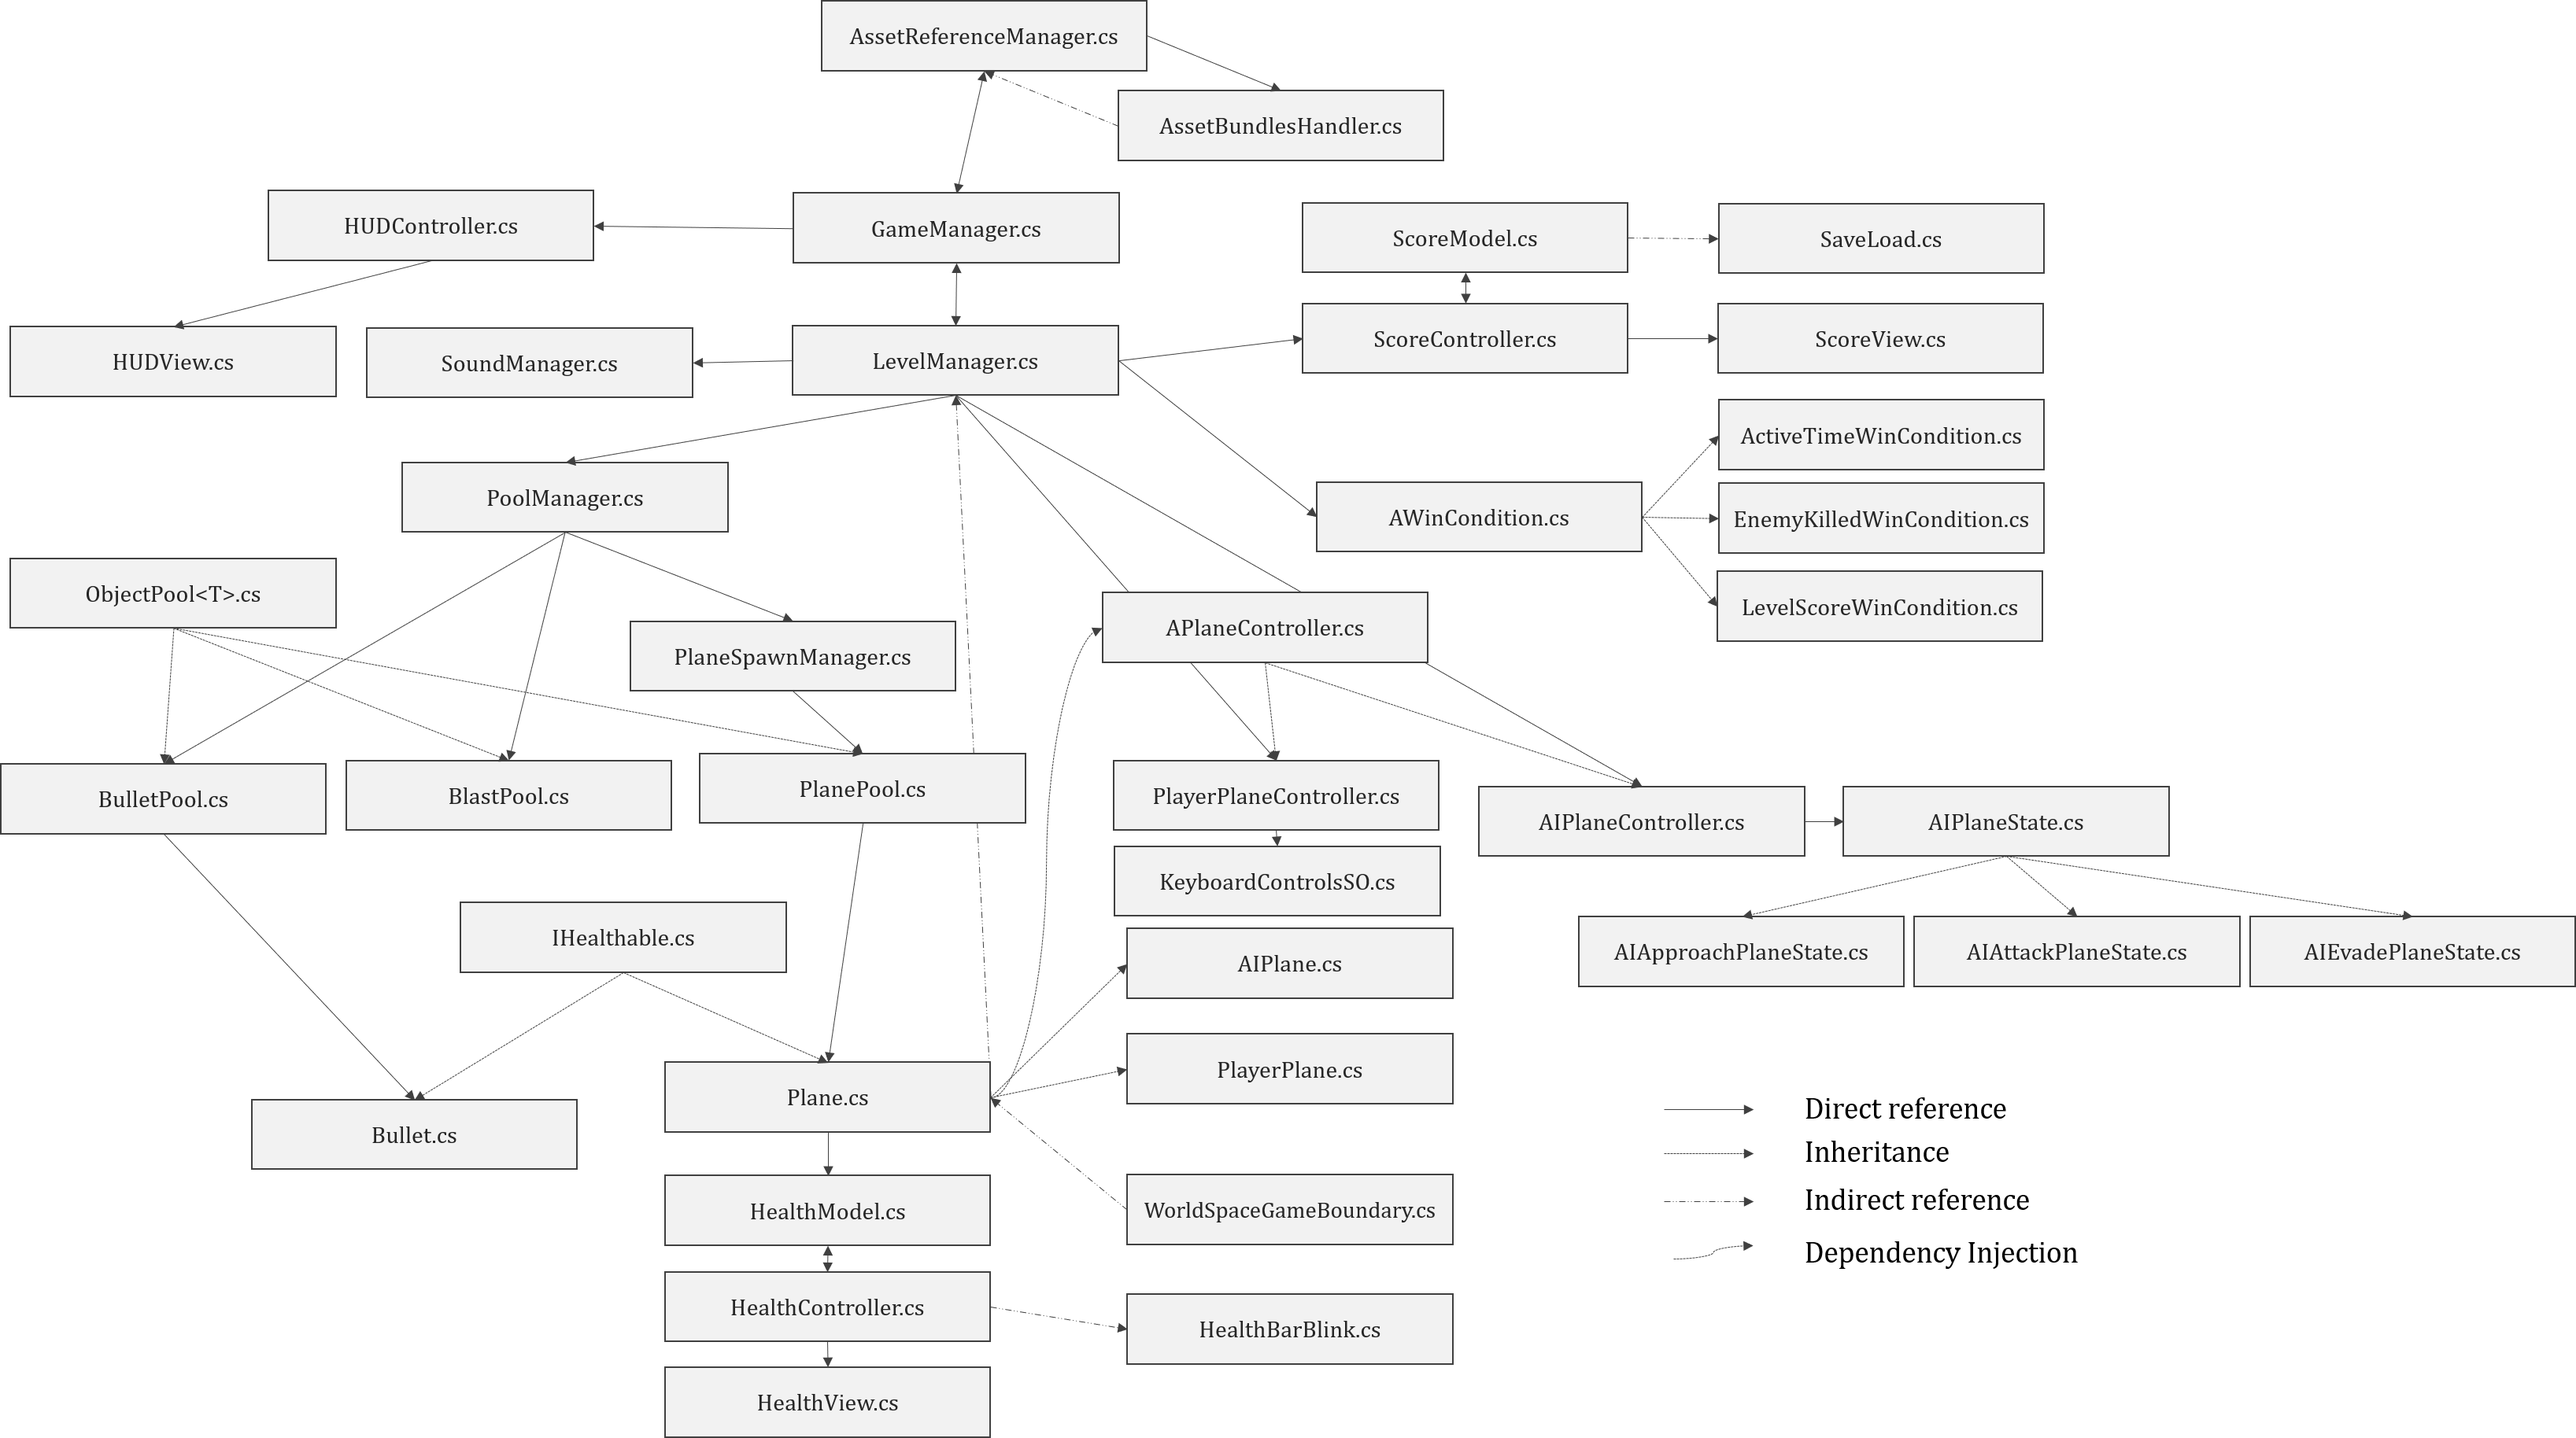
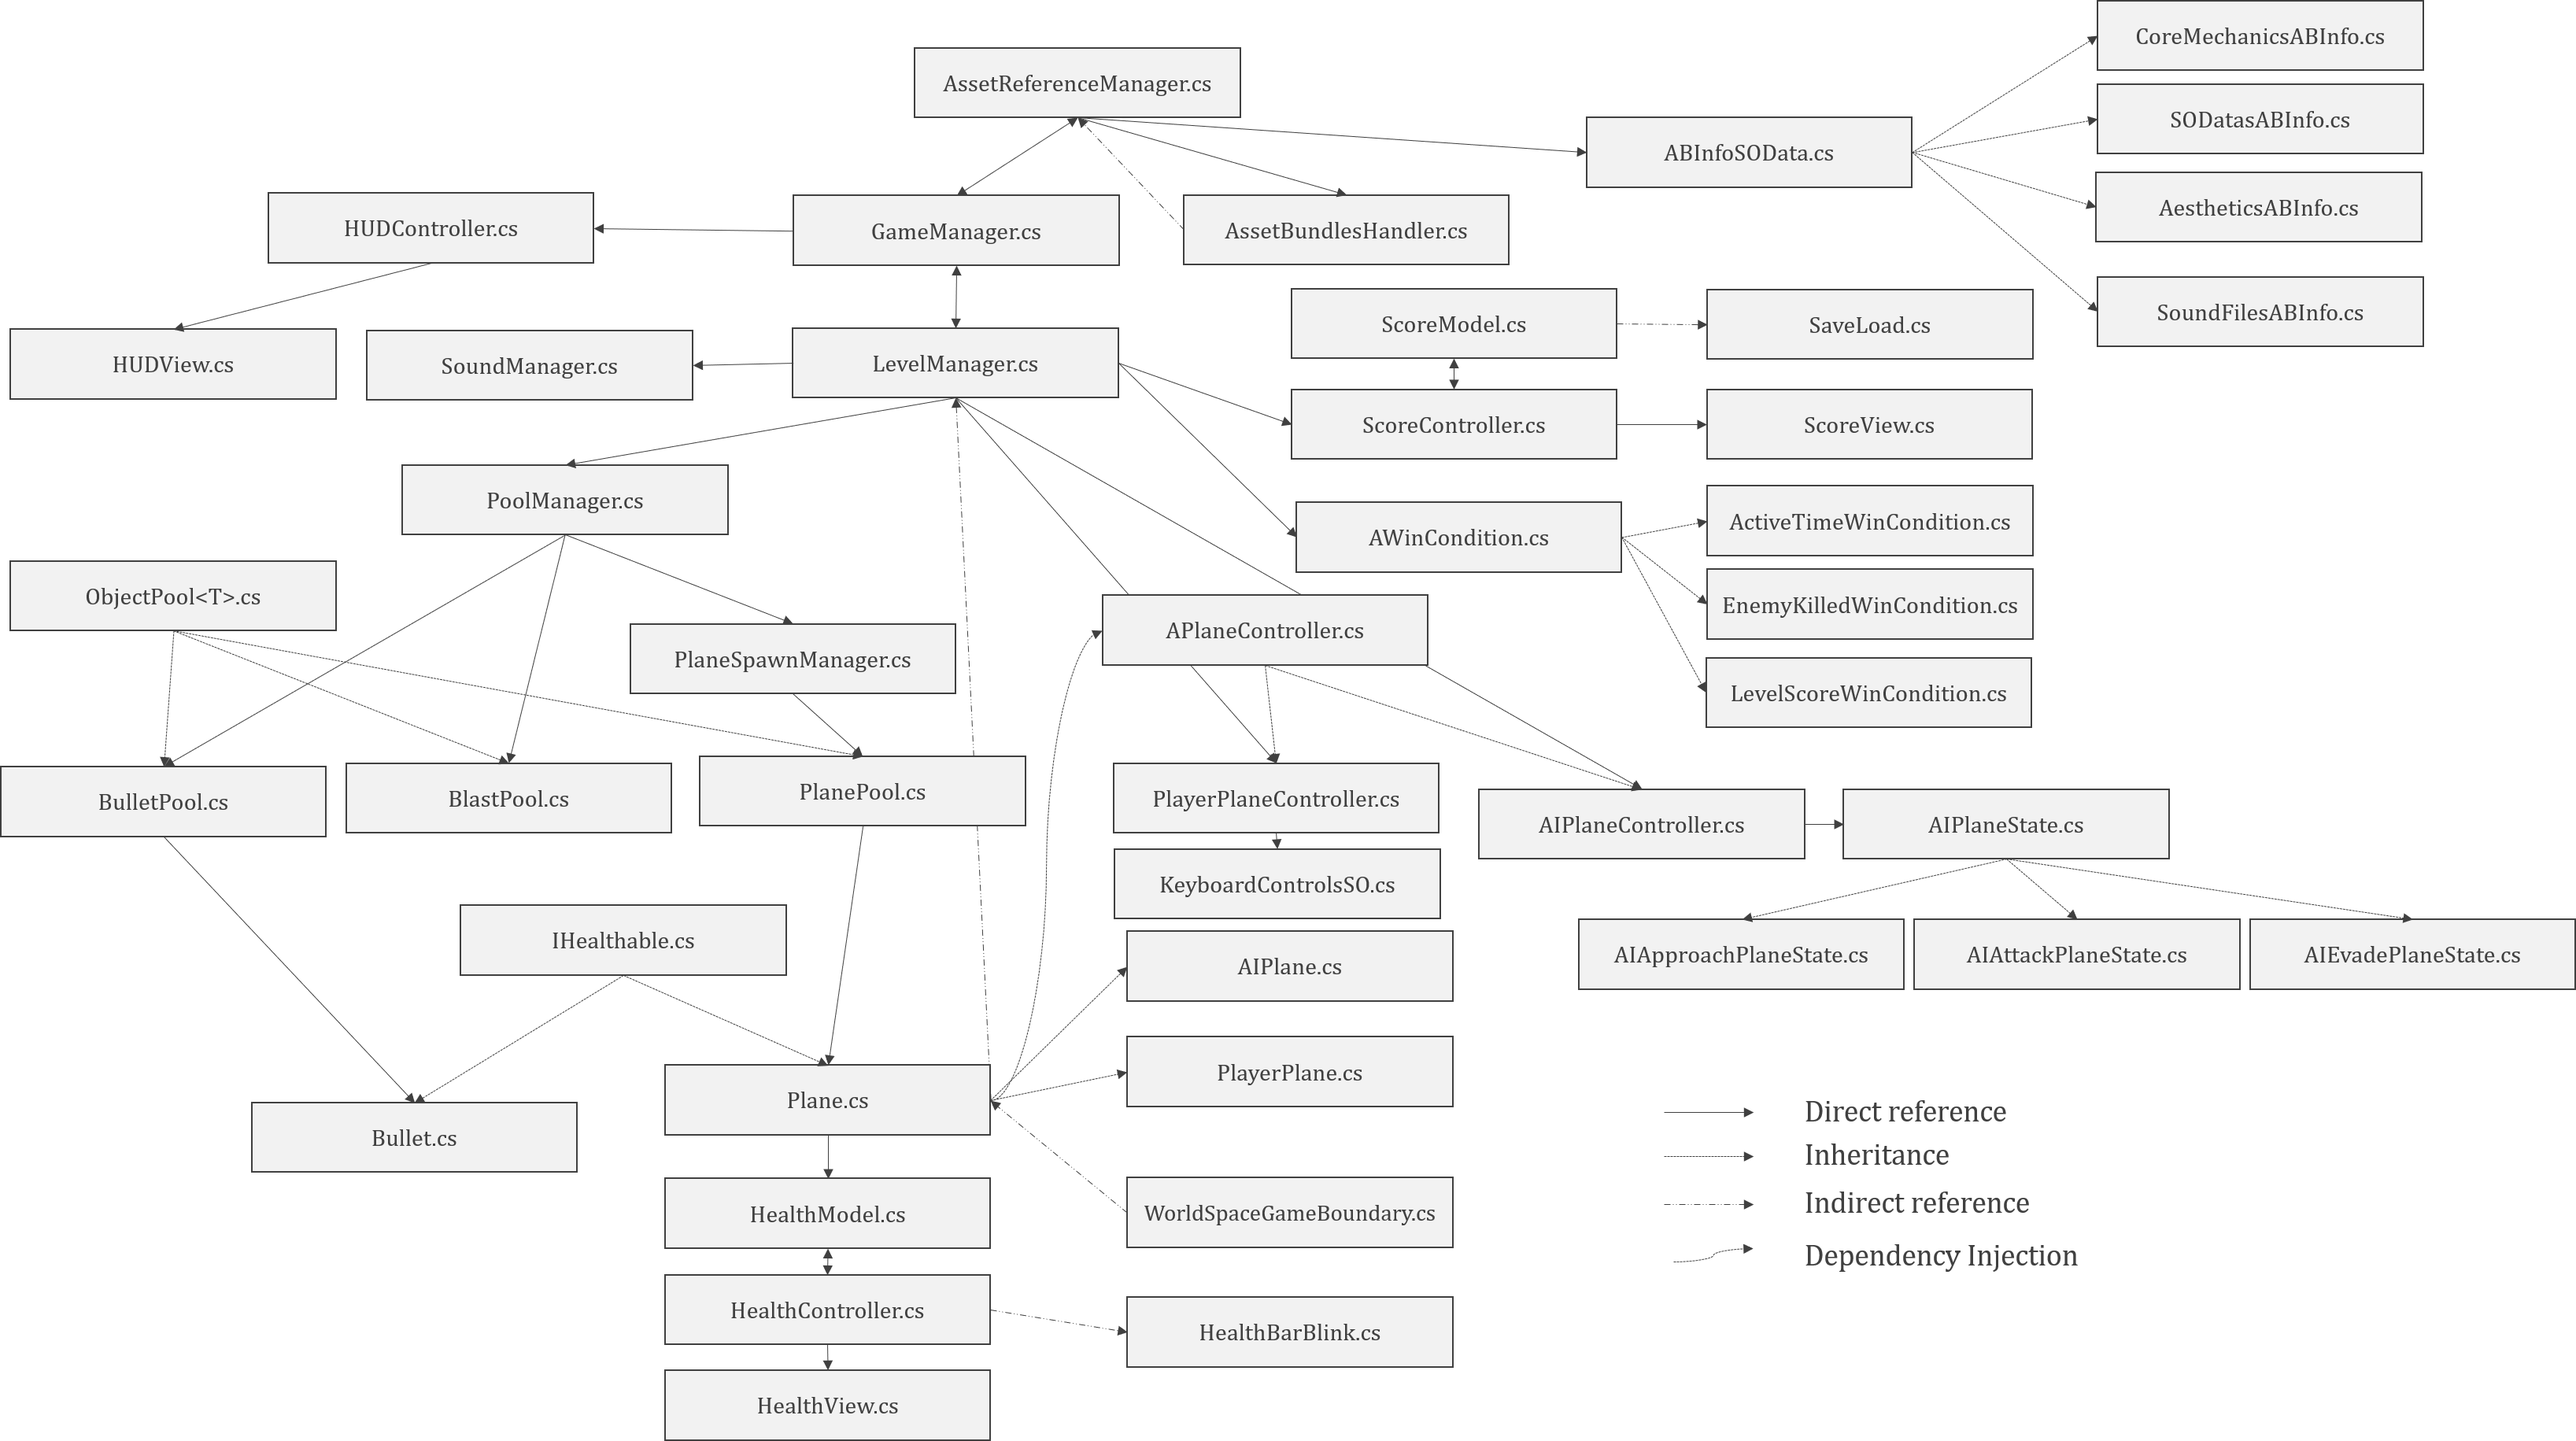
readme update (Asset Bundles, shader, Level SO, images)

diff --git a/README.md b/README.md
@@ -1,4 +1,5 @@
 
+
 # Vertical Scroller Shooter [Read Me: in progress]
 
 Hi! I am Neeraj S. Thakur, Game Programmer. This repository is dedicated to an open Unity3D multiplayer vertical scroller and shooter game project which is very designer friendly with easy configurable win conditions and async asset loads. In this readme, I have explained all the features of the project. 
@@ -35,8 +36,6 @@ Game starts with user selecting **single player** or **multi player** mode and f
 
 Player(s) starts the level and get approached by enemies in waves. Player has to satisfy win condition (configurable) to proceed to next level, where the cycle repeats.
 
-![alt text](https://raw.githubusercontent.com/Nrjnicks/SpaceShooterGame/master/ReadmeImages/GameplayMedivalMultiplayer.jpg "GameplayMedivalMultiplayer")
-
 
 ### Game End
 Game ends if player(s) survive all waves in different levels (Won) or lose all health (Lost)
@@ -50,15 +49,20 @@ Player has to kill *number_of_enemy_planes*, to proceed to next level
 Player has to survive waves of enemies for *time_in_seconds* without dying, to proceed to next level
 ### 3.  Score
 Player has to gain *score* by either surviving or killing enemy planes, to proceed to next level
+![alt text](https://raw.githubusercontent.com/Nrjnicks/SpaceShooterGame/master/ReadmeImages/WinConditions.jpg "WinConditions")
 
 ## Controls
 Player(s) plane is(are) controlled via Keyboard keys. Based on default settings,  
+
 **Player 1** keys: *W A S D* for movement and *Space bar* to fire.
+
 **Player 2** keys: *Arrow Keys* for movement and *Right Ctrl* to fire.
+
+![alt text](https://raw.githubusercontent.com/Nrjnicks/SpaceShooterGame/master/ReadmeImages/KeyboardControls.jpg "KeyboardControls")
 
 ## Enemies
 Game has 3 different types of AI Planes (Easy difficulty, Medium difficulty, Hard difficulty) and similar types of Homing Missiles inflicting different damage.
-[Add types image here]
+![alt text](https://raw.githubusercontent.com/Nrjnicks/SpaceShooterGame/master/ReadmeImages/Enemies.jpg "Enemies")
 
 # Designers Friendly
 
@@ -77,7 +81,9 @@ Game has two modes **single player** and (local) **multi player**.
 Game currently has 2 players multiplayer, but can be theoretically expanded to *int_max*.  Number of players are requested by `GameManager.cs` to `LevelManager.cs` which checks  `MultiPlayerSOData` for Multiplayer data and spawn players. 
 `MultiPlayerSOData` contains list of struct with `PlayerPlaneSOData` and `KeyBoardControlsSO`. Create (explained in details later) as many as you like and enjoy.
 Current max for this project is 4 just because I've only set 4 player spawn positions. Feel free to add inside PoolManager Transform. 
-[Image]
+![alt text](https://raw.githubusercontent.com/Nrjnicks/SpaceShooterGame/master/ReadmeImages/GameplaySpaceSingleplayer2.jpg "GameplaySpaceSingleplayer2")
+
+![alt text](https://raw.githubusercontent.com/Nrjnicks/SpaceShooterGame/master/ReadmeImages/GameplayMedivalMultiplayer2.jpg "GameplayMedivalMultiplayer2")
 
 ## Win Conditions
 `LevelsSOData` contains a `commonWinCondition` and list of `LevelData` which has `WinCondition` and list of `AIWaveData` values. The 3 win condition types mentioned above has exposed variable and can be created as `ScriptableObject` and assigned for these win conditions.
@@ -106,7 +112,10 @@ AI planes has some extra params
 - FOV To Attack
 - Max Active Time On Screen
 - Score Bonus On Kill
-![alt text](https://raw.githubusercontent.com/Nrjnicks/SpaceShooterGame/master/ReadmeImages/GameplaySpaceMultiplayer2.jpg "GameplaySpaceMultiplayer2")
+![alt text](https://raw.githubusercontent.com/Nrjnicks/SpaceShooterGame/master/ReadmeImages/PlaneData.jpg "PlaneData")
+
+
+
 You can play around with these parameters to create different type of enemies. By just making assigning  *0* to `minDistanceToAttack`, you can make plane, a homing missile.
 Having different data and changeable on fly made level design, creating different kind of enemies (dumb to smart) and setting wave sequence very easy.
 
@@ -164,6 +173,28 @@ Internally, more priority is given to Evade state, than Approach, than Attack.
 With just these 3 states, and different `PlaneDataSO`, we are able to create various kind of enemies with similar behaviors.
 
 ### Asset Bundles
+Asset Bundles are a great way to not just to reduce the build size and load assets async, but to change the game on fly.
+For this, we created `AssetBundlesHandler.cs` which locally cache and load asset bundle from `ABInfoSOData.cs`. `ABInfoSOData.cs` is implemented by different class containing information of assets.
+
+![alt text](https://raw.githubusercontent.com/Nrjnicks/SpaceShooterGame/master/ReadmeImages/AssetBundleInfo.png "AssetBundleInfo")
+
+![alt text](https://raw.githubusercontent.com/Nrjnicks/SpaceShooterGame/master/ReadmeImages/AssetBundlesInfo.jpg "AssetBundleInfo")
+
+
+`AssetBundlesHandler.cs` asynchronously loads assets and calls an onComplete<**T**> event passed by `AssetBundlesHandler.cs`. 
+we finally implemented
+`AssetBundlesABInfo.cs` which has information of all assets bundles to be loaded (**The one above all!**). First we load this asset bundle and from there, we load other asset bundles which then load the assets. this makes our whole game total independent of assets.
+
+You will observe that I removed sprites from all the prefabs and setting them while loading assets. This was mostly for removing any inter-dependencies in asset bundles. 
+
+Let me show you an experiment. Let's change the asset bundle name for aesthetics bundle in `AssetBundlesABInfo` from "AestheticsBundleInfoSOData Space" to "AestheticsBundleInfoSOData Medieval". We already have this bundle information SO data ready. So let's build all the asset bundles (**Assets>AssetBundles>Build All AssetBundles**) and hit play.
+
+![alt text](https://raw.githubusercontent.com/Nrjnicks/SpaceShooterGame/master/ReadmeImages/GameplayMedivalMultiplayer.jpg "GameplayMedivalMultiplayer")
+
+
+Woah! now instead of spaceships shooting lasers, we have dragons spitting fire! Great! 2 same screen multiplayer game in build time of one. **noice!**
+> Currently, we are loading all the data on game start, but we can do lazy load as well since we are caching the asset bundle (Cached asset bundle can be unload as well, but kept loaded just to give idea of lazy loading).
+ 
 
 ### Model - View - Controller (MVC)
 We are using MVC architectural pattern for 3 systems.
@@ -252,9 +283,11 @@ As mentioned earlier, my main focus was to make project as designer friendly as 
 
 These win conditions are set in `LevelsDataSO`
 for common win condition for all levels:
+
 ![alt text](https://raw.githubusercontent.com/Nrjnicks/SpaceShooterGame/master/ReadmeImages/WinConditionsLevelSO.jpg "WinConditionsLevelSO")
 
 for different win condition for all levels:
+
 ![alt text](https://raw.githubusercontent.com/Nrjnicks/SpaceShooterGame/master/ReadmeImages/WinConditionsDiffLevelSO.jpg "WinConditionsDiffLevelSO")
 
 to create a totally new type of wincondition, inherit `AWinCondition.cs` and implement `ConditionToWin(ScoreController)` function, create SO and there you go just drag it on `LevelsDataSO`
@@ -267,10 +300,12 @@ For ease of Designers, I also wrote a custom inspector editor script for LevelsD
 If designers wants a common win condition, they can toggle the variable and inspector format changes. Designers can have different win conditions for all levels with toggle of a button. Internally, we are checking for the same variable to set level win conditions for individual levels.
 
 Also, Enemy wave information is shown in a single line so it is easier to read. AIPlaneData to spawn, number of this data enemies in the wave and spawn time difference
+
 ![alt text](https://raw.githubusercontent.com/Nrjnicks/SpaceShooterGame/master/ReadmeImages/Wave.jpg "Wave")
 
 ### Shader
 We Custom created 2 shaders. One `ScrollableBackground` for vertical scrolling, which adds an offset to uv data with some speed attached to Background Obj in scene
+
 ![alt text](https://raw.githubusercontent.com/Nrjnicks/SpaceShooterGame/master/ReadmeImages/ScrollableBackground.jpg "ScrollableBackground")
 
 and the other is `HealthBarBlink` for blink effect on UI element. This materials gets set by `HealthBarBlink.cs` on the Health Bar Image on player(s) as soon as health becomes less than some threshold
